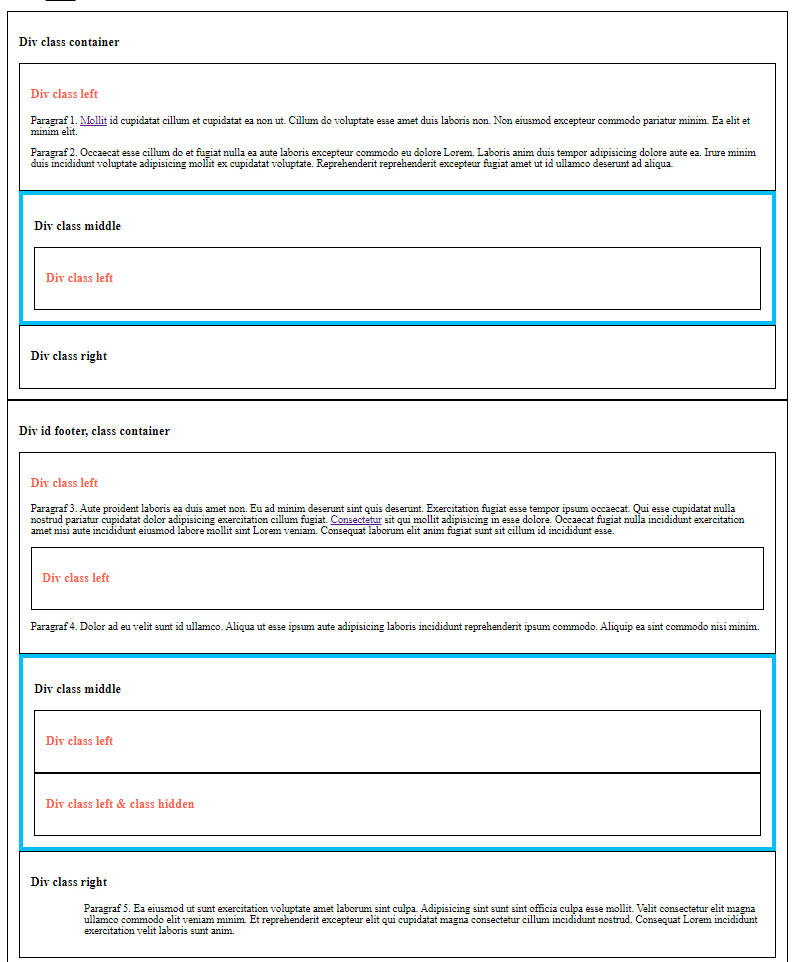
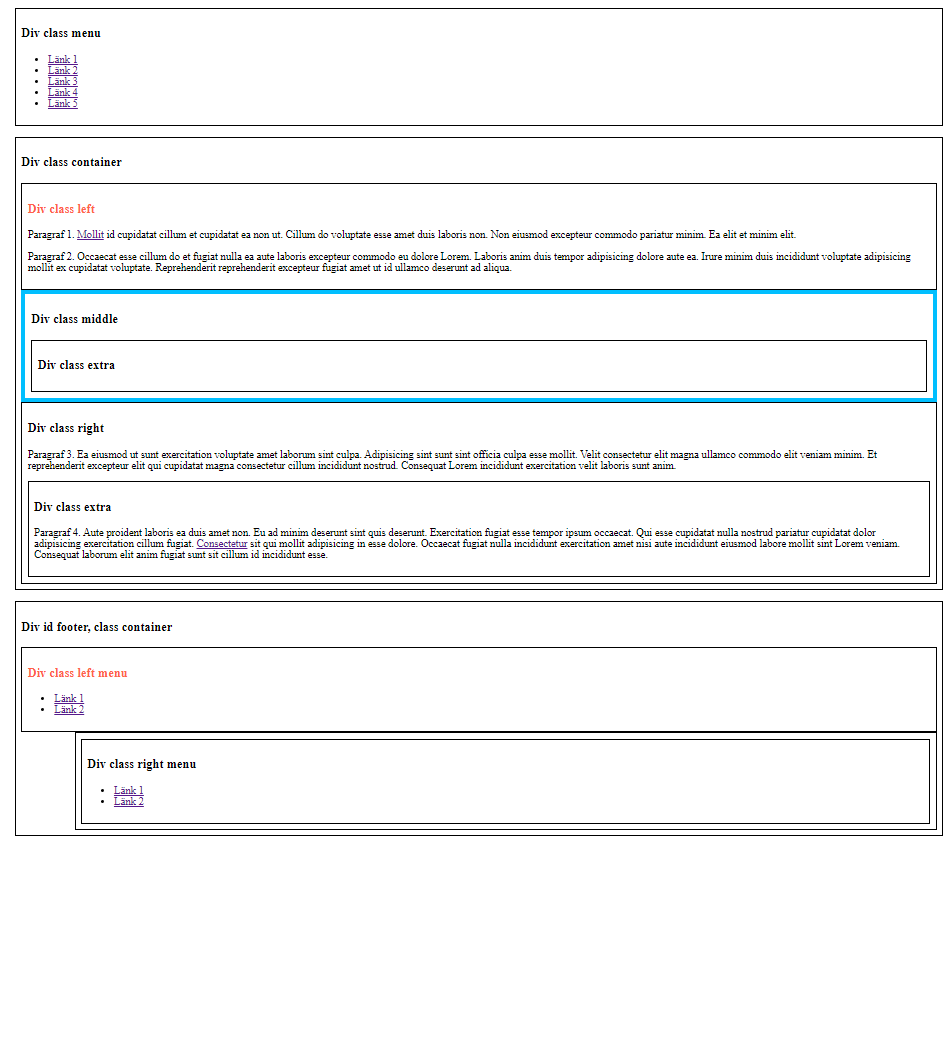
4.1

Changed region(s): [[0.0, 0.0, 0.9987, 0.9979], [0.9685, 0.0, 0.9987, 0.0312]]

diff --git a/4.1 - Mer om selektorer/Övningar/start-4.1.html b/4.1 - Mer om selektorer/Övningar/start-4.1.html
@@ -3,12 +3,13 @@
 
 <head>
     <meta charset="UTF-8">
-    <title>4.1 Selektorer - Övningar</title>
+    <title>4.1 Selektorer - Exempel 1 (övningarna)</title>
     <link rel="stylesheet" href="start-4.1.css">
 </head>
 
 <body>
-    <header>
+    <div class="menu">
+        <h3>Div class menu</h3>
         <nav class="main">
             <ul>
                 <li><a href="">Länk 1</a></li>
@@ -18,7 +19,8 @@
                 <li><a href="">Länk 5</a></li>
             </ul>
         </nav>
-    </header>
+
+    </div>
     <div class="container">
         <h3>Div class container</h3>
         <div class="left">
@@ -39,49 +41,14 @@
         </div>
         <div class="middle">
             <h3>Div class middle</h3>
-            <div class="left">
-                <h3>Div class left</h3>
+            <div class="extra">
+                <h3>Div class extra</h3>
             </div>
         </div>
+
         <div class="right">
             <h3>Div class right</h3>
-        </div>
-    </div>
-    <div id="footer" class="container">
-        <h3>Div id footer, class container</h3>
-        <div class="left">
-            <h3>Div class left</h3>
-            <p>Paragraf 3. Aute proident laboris ea duis amet non. Eu ad minim
-                deserunt sint quis
-                deserunt. Exercitation fugiat esse tempor ipsum occaecat. Qui
-                esse cupidatat nulla nostrud pariatur
-                cupidatat dolor adipisicing exercitation cillum fugiat. <a
-                    href="">Consectetur</a> sit qui mollit
-                adipisicing in esse
-                dolore. Occaecat fugiat nulla incididunt exercitation amet nisi
-                aute incididunt eiusmod labore mollit
-                sint Lorem veniam. Consequat laborum elit anim fugiat sunt sit
-                cillum id incididunt esse.</p>
-            <div class="left">
-                <h3>Div class left</h3>
-            </div>
-            <p>Paragraf 4. Dolor ad eu velit sunt id ullamco. Aliqua ut esse
-                ipsum aute adipisicing laboris incididunt
-                reprehenderit ipsum commodo. Aliquip ea sint commodo nisi minim.
-            </p>
-        </div>
-        <div class="middle">
-            <h3>Div class middle</h3>
-            <div class="left">
-                <h3>Div class left</h3>
-            </div>
-            <div class="left hidden">
-                <h3>Div class left & class hidden</h3>
-            </div>
-        </div>
-        <div class="right">
-            <h3>Div class right</h3>
-            <p class="bottom">Paragraf 5. Ea eiusmod ut sunt exercitation
+            <p class="bottom">Paragraf 3. Ea eiusmod ut sunt exercitation
                 voluptate amet laborum sint culpa. Adipisicing
                 sint
                 sunt sint officia culpa esse mollit. Velit consectetur elit
@@ -89,17 +56,47 @@
                 reprehenderit excepteur elit qui cupidatat magna consectetur
                 cillum incididunt nostrud. Consequat Lorem
                 incididunt exercitation velit laboris sunt anim.</p>
-        </div>
-        <nav class="footer">
-            <ul>
-                <li><a href="">Länk 1</a></li>
-                <li><a href="">Länk 2</a></li>
-                <li><a href="">Länk 3</a></li>
-                <li><a href="">Länk 4</a></li>
-                <li><a href="">Länk 5</a></li>
-            </ul>
-        </nav>
+            <div class="extra">
+                <h3>Div class extra</h3>
+                <p class="left">Paragraf 4. Aute proident laboris ea duis amet
+                    non. Eu ad minim deserunt sint quis
+                    deserunt. Exercitation fugiat esse tempor ipsum occaecat.
+                    Qui esse cupidatat nulla nostrud pariatur
+                    cupidatat dolor adipisicing exercitation cillum fugiat. <a
+                        href="">Consectetur</a> sit qui mollit
+                    adipisicing in esse
+                    dolore. Occaecat fugiat nulla incididunt exercitation amet
+                    nisi
+                    aute incididunt eiusmod labore mollit
+                    sint Lorem veniam. Consequat laborum elit anim fugiat sunt
+                    sit
+                    cillum id incididunt esse.</p>
+            </div>
 
+        </div>
+    </div>
+    <div id="footer" class="container">
+        <h3>Div id footer, class container</h3>
+
+        <nav class="footer">
+            <div class="left menu">
+                <h3>Div class left menu</h3>
+                <ul>
+                    <li><a href="">Länk 1</a></li>
+                    <li><a href="">Länk 2</a></li>
+
+                </ul>
+            </div>
+            <div class="right menu">
+                <div>
+                    <h3>Div class right menu</h3>
+                    <ul>
+                        <li><a href="">Länk 1</a></li>
+                        <li><a href="">Länk 2</a></li>
+                    </ul>
+                </div>
+            </div>
+        </nav>
     </div>
 
 

diff --git a/4.1 - Mer om selektorer/Exempel/exempel1.html b/4.1 - Mer om selektorer/Exempel/exempel1.html
@@ -3,29 +3,101 @@
 
 <head>
     <meta charset="UTF-8">
-    <meta name="viewport" content="width=device-width, initial-scale=1.0">
+    <title>4.1 Selektorer - Exempel 1 (övningarna)</title>
     <link rel="stylesheet" href="exempel1.css">
-    <title>4.1 Selektorer - Exempel 1 (kursmaterialet)</title>
 </head>
 
 <body>
-
-
-    <nav id="main">
-        <p>Ett nav-element med id:t main</p>
-        <div class="mobile visible">
-            <p>En div med klassen mobile och visible inuti ett nav-element med
-                id:t main.</p>
+    <div class="menu">
+        <h3>Div class menu</h3>
+        <nav class="main">
             <ul>
-                <li>Hej hej</li>
+                <li><a href="">Länk 1</a></li>
+                <li><a href="">Länk 2</a></li>
+                <li><a href="">Länk 3</a></li>
+                <li><a href="">Länk 4</a></li>
+                <li><a href="">Länk 5</a></li>
             </ul>
-        </div>
-    </nav>
-    <div class="mobile visible">
-        <p>En div med klassen mobile och visible.
-        </p>
-    </div>
+        </nav>
 
+    </div>
+    <div class="container">
+        <h3>Div class container</h3>
+        <div class="left">
+            <h3>
+                Div class left
+            </h3>
+            <p>Paragraf 1. <a href="">Mollit</a> id cupidatat cillum et
+                cupidatat ea non ut. Cillum do voluptate esse
+                amet duis laboris non. Non eiusmod excepteur commodo pariatur
+                minim. Ea elit et minim elit.</p>
+            <p>Paragraf 2. Occaecat esse cillum do et fugiat nulla ea aute
+                laboris excepteur commodo eu
+                dolore Lorem. Laboris anim duis tempor adipisicing dolore aute
+                ea. Irure minim duis incididunt voluptate
+                adipisicing mollit ex cupidatat voluptate. Reprehenderit
+                reprehenderit excepteur fugiat amet ut id
+                ullamco deserunt ad aliqua.</p>
+        </div>
+        <div class="middle">
+            <h3>Div class middle</h3>
+            <div class="extra">
+                <h3>Div class extra</h3>
+            </div>
+        </div>
+
+        <div class="right">
+            <h3>Div class right</h3>
+            <p class="bottom">Paragraf 3. Ea eiusmod ut sunt exercitation
+                voluptate amet laborum sint culpa. Adipisicing
+                sint
+                sunt sint officia culpa esse mollit. Velit consectetur elit
+                magna ullamco commodo elit veniam minim. Et
+                reprehenderit excepteur elit qui cupidatat magna consectetur
+                cillum incididunt nostrud. Consequat Lorem
+                incididunt exercitation velit laboris sunt anim.</p>
+            <div class="extra">
+                <h3>Div class extra</h3>
+                <p class="left">Paragraf 4. Aute proident laboris ea duis amet
+                    non. Eu ad minim deserunt sint quis
+                    deserunt. Exercitation fugiat esse tempor ipsum occaecat.
+                    Qui esse cupidatat nulla nostrud pariatur
+                    cupidatat dolor adipisicing exercitation cillum fugiat. <a
+                        href="">Consectetur</a> sit qui mollit
+                    adipisicing in esse
+                    dolore. Occaecat fugiat nulla incididunt exercitation amet
+                    nisi
+                    aute incididunt eiusmod labore mollit
+                    sint Lorem veniam. Consequat laborum elit anim fugiat sunt
+                    sit
+                    cillum id incididunt esse.</p>
+            </div>
+
+        </div>
+    </div>
+    <div id="footer" class="container">
+        <h3>Div id footer, class container</h3>
+
+        <nav class="footer">
+            <div class="left menu">
+                <h3>Div class left menu</h3>
+                <ul>
+                    <li><a href="">Länk 1</a></li>
+                    <li><a href="">Länk 2</a></li>
+
+                </ul>
+            </div>
+            <div class="right menu">
+                <div>
+                    <h3>Div class right menu</h3>
+                    <ul>
+                        <li><a href="">Länk 1</a></li>
+                        <li><a href="">Länk 2</a></li>
+                    </ul>
+                </div>
+            </div>
+        </nav>
+    </div>
 
 
 </body>

diff --git a/4.1 - Mer om selektorer/Exempel/exempel1.css b/4.1 - Mer om selektorer/Exempel/exempel1.css
@@ -1,14 +1,107 @@
-/* nav#main div.mobile.visible {
-    background-color: aquamarine;
-    color: blueviolet;
-}
-
-nav#main {
-    background-color: bisque;
+div {
     border: 1px solid #000;
+    padding: .5rem;
+    
+}
+body > div {
+    margin: 1rem; 
 }
 
-div.mobile.visible {
-    background-color: darkgrey;
+/* Skriv kod för övning 1 nedan */
+/* div#footer {
+    border: 3px solid salmon; 
+}
+div.container {
+    background-color: cornsilk; 
+}
+h3 {
+    font-style: italic; 
+}
+p {
+    color: blueviolet; 
+} */
+
+/* Kommentera bort koden för övning 1 och skriv sedan kod för övning 2 */
+/* div .middle {
+    border: 7px solid deepskyblue;
+
+}
+div.left h3 {
+    color: tomato; 
+} 
+
+div.main a {
+    color: black; 
+}
+
+div#footer .right {
+    margin-left: 5rem; 
+
+} */
+
+/* Kommentera bort koden för övning 2 och skriv sedan kod för övning 3 */
+
+/* div.left, div.middle {
+    font-size: 1.3rem; 
+    color: blue;
+}
+div.menu nav {
+    background: navajowhite;
+}
+
+nav.footer li, div.right{
+ border: 3px solid deeppink;    
+}
+
+.left.menu {
+    background: #adbead; 
+} */
+/* Kommentera bort koden för övning 3 och skriv sedan kod för övning 4 */
+/* nav.main ul, nav.footer{
+    display: flex; 
+    padding: 0; 
+
+}
+nav li  {
+    list-style-type: none;
+    padding: .3em; 
+}
+
+.menu li a {
+    color: #5b9c91; 
+    text-decoration: none;
+    font-weight: bold; 
+}
+
+nav.footer > div {
+    flex-basis: 100%; 
+    padding: 1em; 
+    
+}
+
+div.container * {
+    border: 0;     
+}
+
+.container:not(#footer) {
+    display: flex; 
+    gap: 1rem; 
+    padding: 0;
+}
+.container > h3 {
+    display: none; 
+}
+.container div.left, .container div.right, .container div.middle {
+    flex: 1 0; 
+    padding: 1rem; 
+}
+.container .left {
+    background: wheat;     
+}
+
+p {
+    font-size: 17px; 
+    line-height: 1.5em;
 }
  */
+

diff --git a/4.1 - Mer om selektorer/Övningar/start-4.1.css b/4.1 - Mer om selektorer/Övningar/start-4.1.css
@@ -2,8 +2,12 @@ div {
     border: 1px solid #000;
     padding: 1rem;
 }
+body > div {
+    margin: 1rem; 
+}
 
 /* Skriv kod för övning 1 nedan */
+
 
 /* Kommentera bort koden för övning 1 och skriv sedan kod för övning 2 */
 
